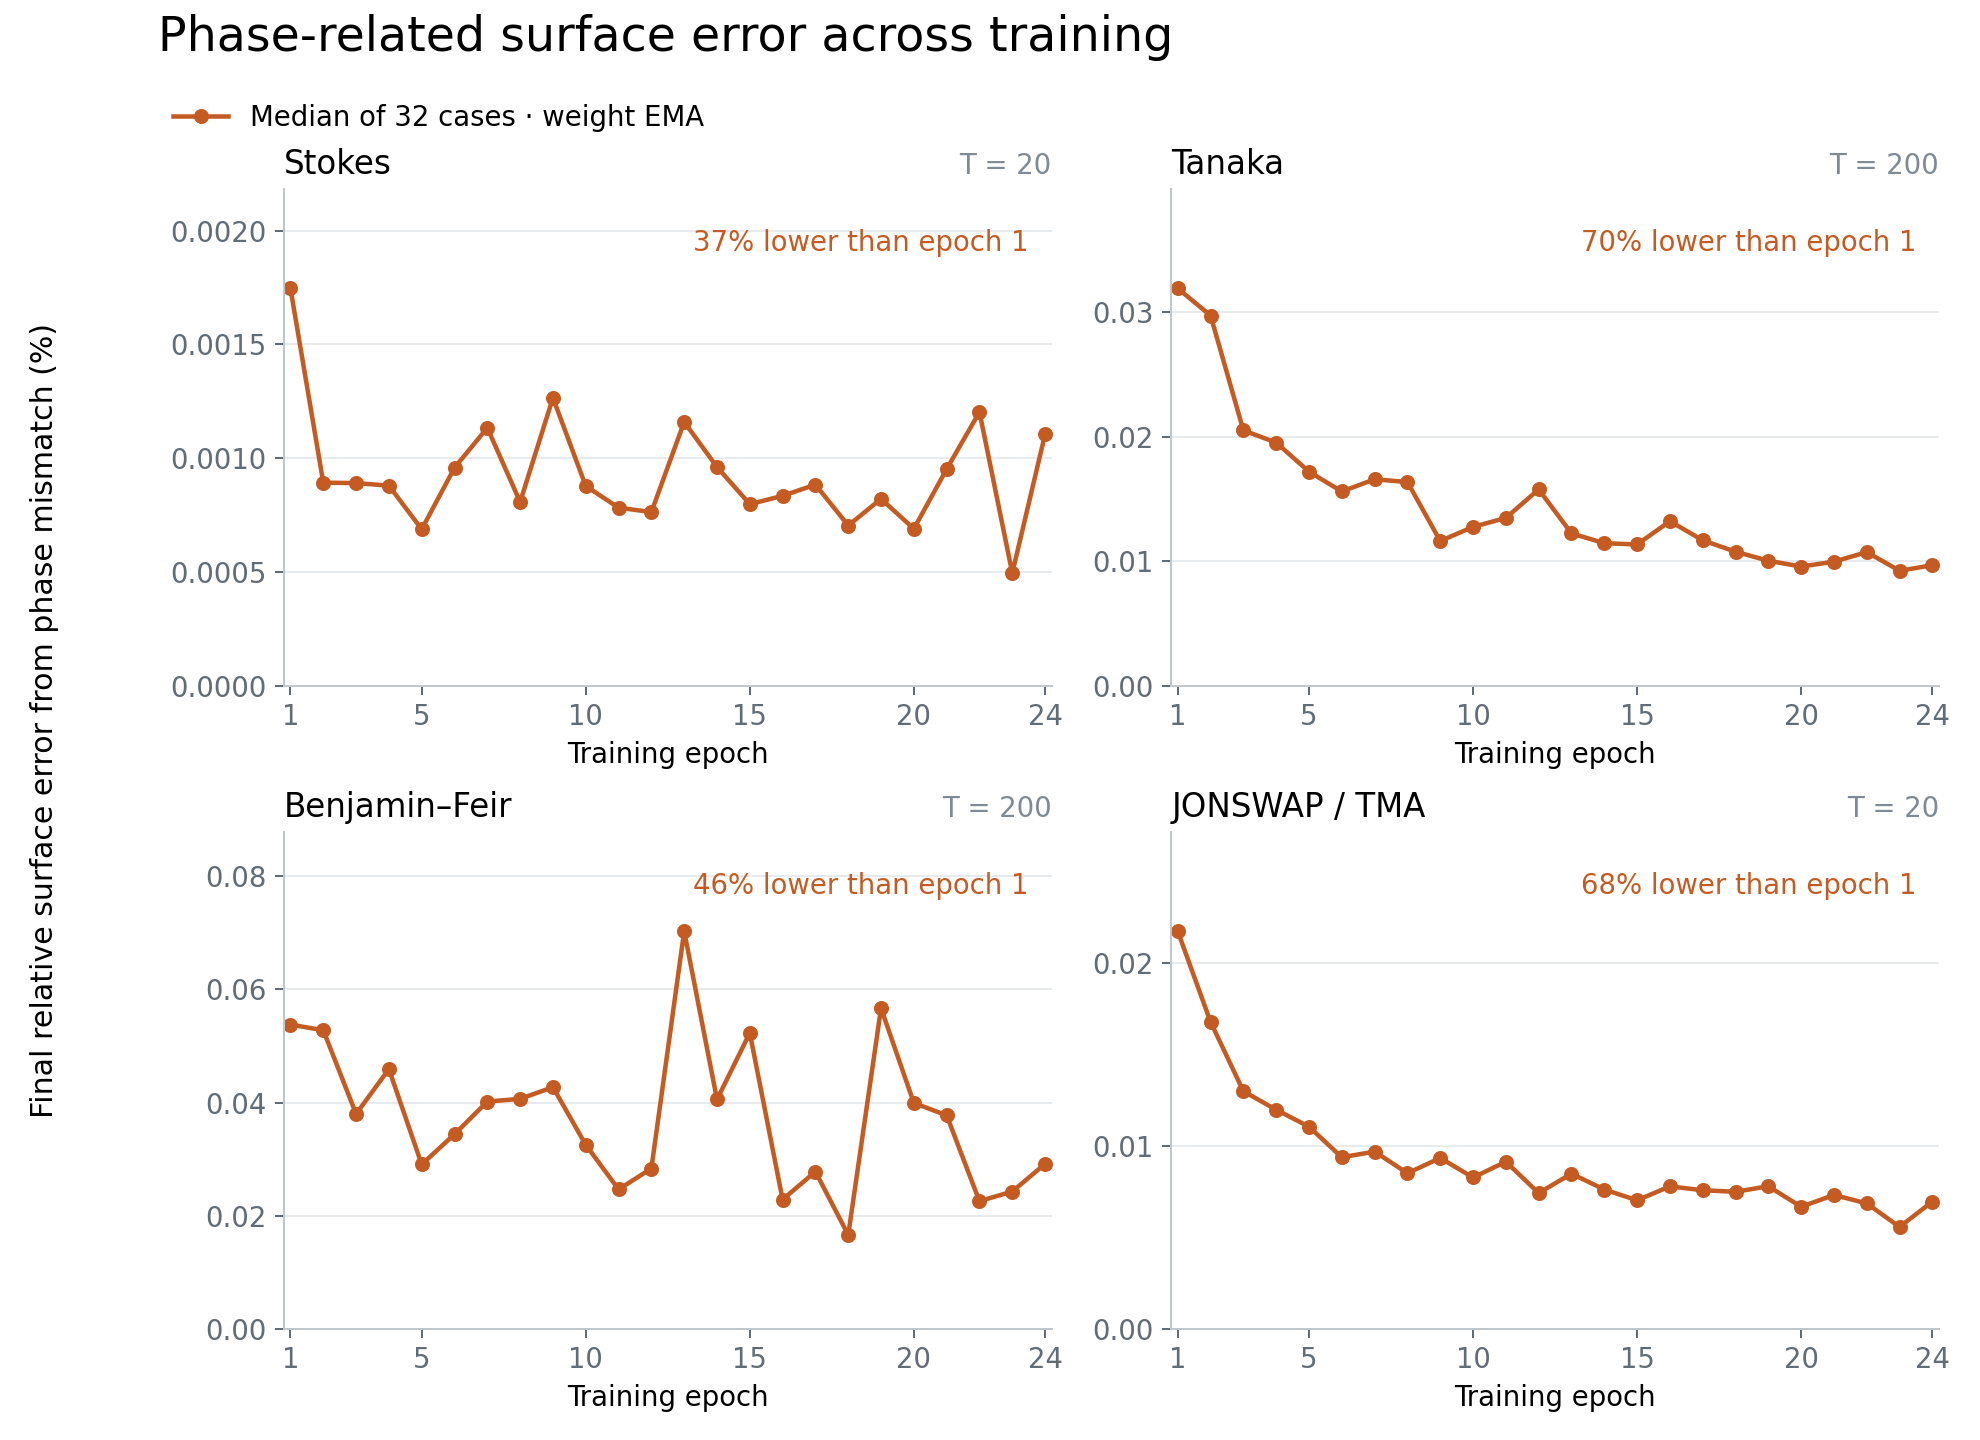
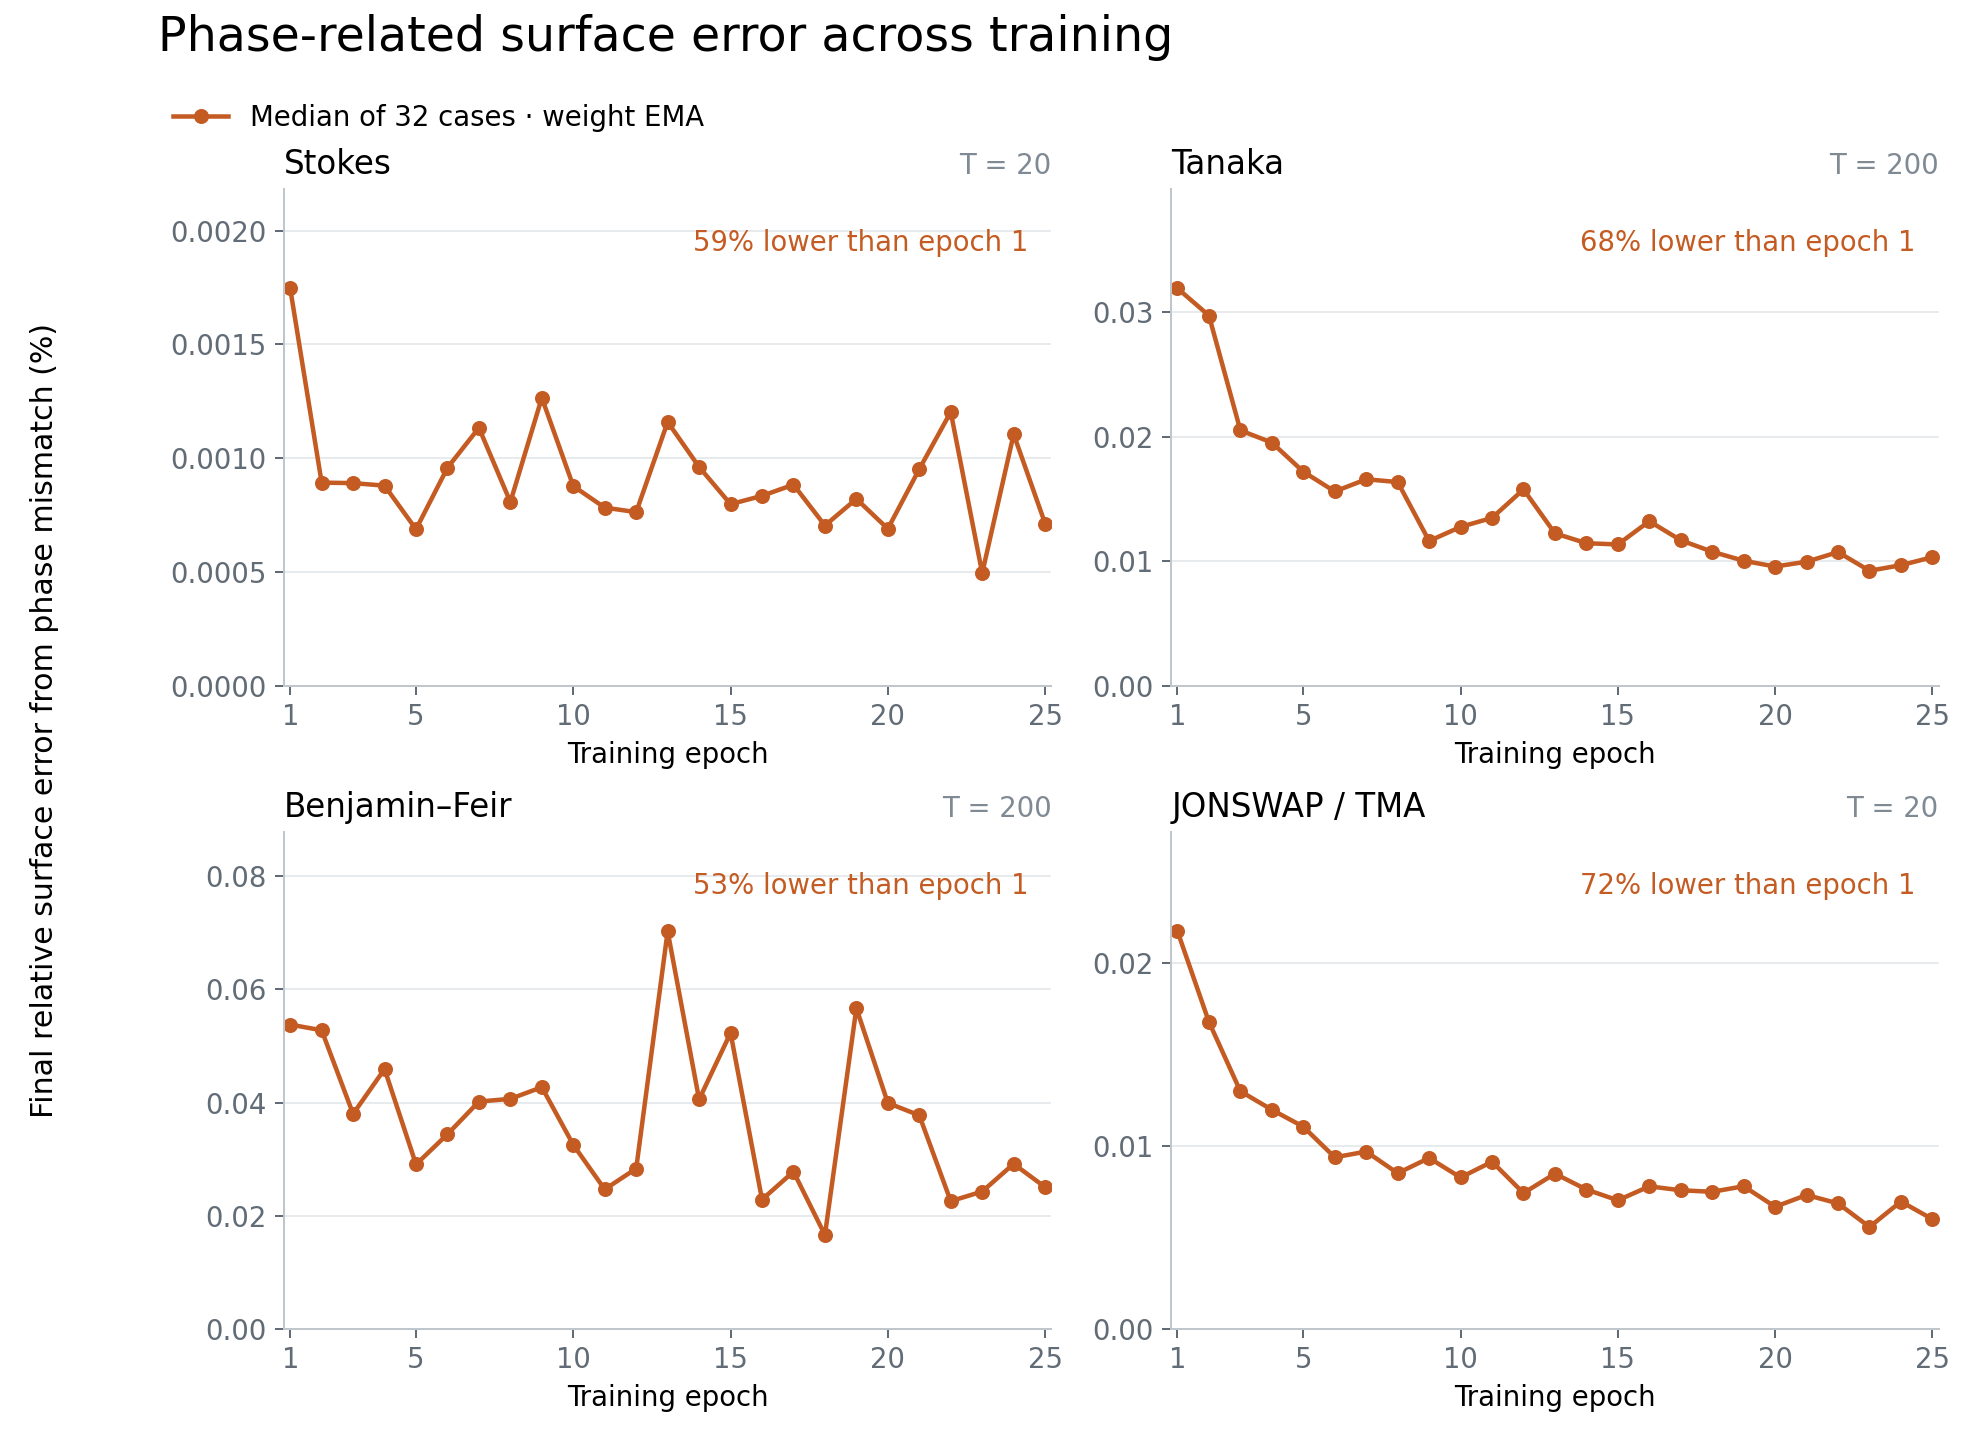
Refresh epoch 25 phase plot and retain epoch 23 rollout best

diff --git a/paper-plots/plot_phase_diagnostics.py b/paper-plots/plot_phase_diagnostics.py
@@ -75,7 +75,7 @@ def main() -> None:
         "pdf.fonttype": 42, "ps.fonttype": 42,
     })
     if args.phase_training:
-        epochs = np.arange(1, 25)
+        epochs = np.arange(1, 26)
         evaluations = [
             ROOT / "outputs/c27_phase1_lr8_momentum_half_ema995_grad05_adam05_b2099_batch16_hd04_band128_nested1_gamma32_full_20261012/eval_fast_weight_ema_nestedfused_contextbatch",
             *(ROOT / f"outputs/c27_nested_b16_ema_low_lr_continue_20261014/eval_epoch{epoch}_weight_ema" for epoch in (2, 3)),

diff --git a/experiments/experiments-2026-10-16.md b/experiments/experiments-2026-10-16.md
@@ -1,6 +1,6 @@
 # Experiments — 2026-10-16
 
-Epoch 23 remains the aggregate rollout best through epoch 24 under the approved low-LR continuation. Figure 12c uses epoch-23 weight EMA and unchanged measured Ada timings; Figure 22 includes epochs 1–24. Epoch 24's pooled terminal surface error regresses 22.7% against 23 despite improved validation. Epoch 25 resumed automatically. Best validation is 24, with patience 0/5; the longer-run experiment remains ongoing.
+Epoch 23 remains the aggregate rollout best through epoch 25 under the approved low-LR continuation. Figure 12c uses epoch-23 weight EMA and unchanged measured Ada timings; Figure 22 includes epochs 1–25. Epoch 25's pooled terminal surface error improves 6.0% over 24 but remains 15.3% worse than 23. Epoch 26 resumed automatically. Best validation is 25, with patience 0/5; the longer-run experiment remains ongoing.
 
 | Date | Time | File / Variant | Motivation | What Tried / Evidence | Correctness | Timing | Decision |
 | --- | --- | --- | --- | --- | --- | --- | --- |
@@ -11,3 +11,4 @@ Epoch 23 remains the aggregate rollout best through epoch 24 under the approved 
 | 2026-10-16 | 10:19 | Same continuation: epoch 22 primary EMA; Figure 22 | Check whether unchanged low-LR continuation improves rollout accuracy and refresh the requested phase plot. | All128 EMA rollouts complete. Pooled eta/xi GM22/21=.938325/.945201 (68/71 wins),22/18=1.097069/1.108328 (67/67),22/1=.435857/.435281 (107/107). Eta/M2=.203739 (97 wins),eta/M3=.858547 (69). Family eta22/18 S/T/BF/J=1.705301/.777027/1.199994/.911001: Tanaka and JONSWAP improve, Stokes and BF regress. Eta median/p95 percent: .001227854/.026077752, .011917066/.108495435, .024187243/.078574182, .009230428/.063762183. Pooled eta GM/median/p95=.007490703/.010890454/.076519060%; xi GM=.005934898%. Whole-trajectory eta22/18=1.067412,22/1=.433939; phase22/18=1.137881,22/1=.471971; amplitude22/18=.933695. Validation selection improves1.2720% to1.269090905e-5, best22,patience0/5. | Independent CPU audit verifies matching128 IDs/times/depths, finite arrays, valid references, positive water depth, exact terminal eta/xi/Gxi norms and no configured eta-threshold failures. Root independently reproduces terminal/trajectory errors and the direct Fourier phase/amplitude identity. All six counters16220490; all52 EMA arrays/40384 scalars match latest/export/best shadows. LR8e-6,gradientEMA.5,weightEMA.995 unchanged. Figure22 includes22; phase medians .001203018/.010738561/.022559409/.006848962%, respectively31.1/66.3/58.0/68.5% below1. | Training02:03, finished10:10; validation/export10:13; all EMA rollouts and automatic epoch23 resume10:17. CPU audit/render10:14–10:21; no new GPU timing. | MERGE phase-plot refresh; keep Figure12c and retained best full state at18. Continue approved60-epoch ceiling and validation-patience-five rule unchanged. |
 | 2026-10-16 | 12:32 | Same continuation: epoch 23 primary EMA; Figures 12c/22 | Test whether continued low-LR training preserves the one-epoch gains and improves the selected rollout checkpoint. | All128 EMA rollouts complete. Pooled eta/xi GM23/18=.941541/.927289 (70/70 wins),23/22=.858234/.836655 (70/72),23/1=.374067/.364181 (120/118). Eta/M2=.174855 (100 wins),eta/M3=.736834 (74). Family eta23/18 S/T/BF/J=.993917/.752252/1.127954/.931865: BF regresses12.8%. Eta median/p95 percent: .000565933/.008818952, .012099028/.157663917, .025179085/.063855665, .007758187/.060418578. Pooled eta GM/median/p95=.006428775/.008161471/.075854952%; xi GM=.004965465%. Whole-trajectory eta23/18=.948755,23/1=.385701; exact phase23/18=.938037,23/1=.389079; amplitude23/18=.994113. Pooled eta p95 rises from.070785590% at18. Validation selection1.269513077e-5 is.0333% worse than22; best validation22,patience1/5. | Independent CPU checks confirm matching128 IDs/times/depths, finite fields, valid references, positive water depth, exact terminal eta/xi/Gxi norms and zero configured eta-threshold failures. Root independently reproduces terminal/trajectory errors and direct Fourier phase/amplitude identity. Retained full23 in rollout_best_epoch23_ckpt matches latest exactly:264 leaves/201924 scalars,counters16957785; all52 EMA arrays/40384 scalars match export. LR8e-6,gradientEMA.5,weightEMA.995 unchanged. Figure12c uses23 with unchanged measured B1 times1.555725211/15.307572914/15.304878696/1.560811040 seconds; fixed-case eta percent .000234292/.145267789/.033999722/.019160100, independently checked in PDF. Figure22 includes23, phase medians .000495448/.009239992/.024267692/.005563976%, respectively71.6/71.0/54.9/74.4% below1. | Training02:04, finished12:22; validation/export12:25; all EMA rollouts and automatic epoch24 resume12:29. CPU audits/render12:26–12:32; no new GPU timing. | MERGE figures/log and retain23 as new best by pooled geometric-mean terminal eta, not every family or tail metric. Continue the approved60-epoch ceiling and validation-patience-five rule unchanged; sustained60–120-epoch transfer remains unproven. |
 | 2026-10-16 | 14:44 | Same continuation: epoch 24 primary EMA; Figures 12c/22 | Refresh requested plots and test whether the latest complete EMA evaluation improves the selected rollout checkpoint. | All128 rollouts complete. Pooled eta/xi GM24/23=1.226908/1.263586 (55/53 wins); eta/M2=.214531 (98 wins),eta/M3=.904028 (71). Family eta24/23 S/T/BF/J=1.552802/.955209/1.558001/.980540. Eta median/p95 percent: .001111796/.011584164, .012531554/.203851395, .031707002/.081934524, .007977855/.065485282. Pooled eta GM/median/p95=.007887513/.011292078/.081373334%; xi GM=.006274294%. Whole-trajectory eta24/23=1.219871; exact phase=1.276248,amplitude=1.054001. Validation selection improves1.3905% to1.251860710e-5, best24,patience0/5; again validation does not rank the rollout regression. | Independent CPU audit verifies matching128 IDs/times/depths against23/M2/M3, finite fields, valid references, positive water depth and exact terminal eta norms. Root independently reproduces terminal/trajectory errors and direct Fourier phase/amplitude identity. Boundary state audit confirms counters17695080 and all52 EMA arrays/40384 scalars matching latest/export/best; gradientEMA.5,weightEMA.995,LR8e-6 unchanged. Figure12c retains23 and existing measured B1 timings. Figure22 extends through24; phase medians .001105276/.009686092/.029153970/.006949670%. | Training02:04; validation/export14:37; EMA evaluation complete14:40, then automatic epoch25 resume. CPU audit/render14:42 onward; no new GPU timing. | MERGE plot refresh; retain23 as rollout best. Continue approved60-epoch ceiling and validation-patience-five rule unchanged. |
+| 2026-10-16 | 16:55 | Same continuation: epoch 25 primary EMA; Figure 22 | Test whether unchanged low-LR continuation improves the selected rollout checkpoint and refresh the requested phase-history plot. | All128 rollouts complete. Pooled eta/xi GM25/23=1.153271/1.177214 (61/62 wins),25/24=.939982/.931645 (69/76),25/1=.431401/.428719 (111/109). Eta/M2=.201656 (100 wins),eta/M3=.849770 (67). Family eta25/23 S/T/BF/J=1.437057/1.143899/1.107907/.971316. Eta median/p95 percent: .000718240/.017180106, .012034970/.144168675, .027112303/.078011446, .007838281/.066413457. Pooled eta GM/median/p95=.007414120/.010159466/.078245302%; xi GM=.005845415%. Whole-trajectory eta25/23=1.096161; exact phase=1.210126,amplitude=1.035683. Selection validation improves1.0934% to1.238173262e-5, best25,patience0/5. | Independent CPU audit verifies matching128 IDs/times/depths against23/24/M2/M3, finite fields, valid references, positive water depth and exact saved terminal eta/xi/Gxi norms. Root independently reproduces terminal/trajectory errors and direct Fourier phase/amplitude identity; direct saved norms use the evaluator's documented denominator epsilon. Checkpoint audit confirms counters18432375 and all52 EMA arrays/40384 scalars matching latest/export/best. LR8e-6,gradientEMA.5,weightEMA.995 unchanged. Figure12c retains23 and unchanged measured B1 timings. Figure22 extends through25; phase medians .000713302/.010332284/.025037043/.005988000%, respectively59.1/67.6/53.4/72.4% below1. | Training02:04, finished16:45; validation/export16:49; EMA evaluation complete16:52, then automatic epoch26 resume. CPU audits/render16:52 onward; no new GPU timing. | MERGE phase-plot refresh; retain23 as rollout best. Continue approved60-epoch ceiling and validation-patience-five rule unchanged; sustained60–120-epoch transfer remains unproven. |

diff --git a/paper-plots/README.md b/paper-plots/README.md
@@ -435,7 +435,7 @@ UV_CACHE_DIR=/tmp/codex-uv-cache uv run --no-sync paper-plots/plot_neural_advant
 
 Figure 12c compares the Ada classical solver, epoch-23 EMA candidate, and older
 rollout-supervised network. Epoch 23 is the best overall evaluated checkpoint
-through epoch 24 by pooled geometric-mean terminal surface error across the 128 cases;
+through epoch 25 by pooled geometric-mean terminal surface error across the 128 cases;
 each panel still displays the fixed timed case, not the family median. Runtime
 measurements are unchanged for the same inference path. It omits the RMS/context
 and spectral-DNO models and historical timing annotations:
@@ -760,17 +760,17 @@ OPENBLAS_NUM_THREADS=1 OMP_NUM_THREADS=1 UV_CACHE_DIR=/tmp/dno-uv-cache \
 [PNG](figures/22-phase-error-vs-training.png) / [PDF](figures/22-phase-error-vs-training.pdf)
 
 Terminal Fourier-phase error for primary weight-EMA checkpoints at every epoch
-from 1 through 24, using the same 32 cases per family. The y axis uses Figure 20's
+from 1 through 25, using the same 32 cases per family. The y axis uses Figure 20's
 relative-error magnitude, not the percentage of total squared error. Each point
 is the median of `100*sqrt(phase_energy/reference_energy)` at the final rollout
-time. All twenty-four measurements are shown; the curves are not monotonic.
-Epoch-24 median errors are 0.00110528%, 0.00968609%, 0.0291540% and
-0.00694967% for Stokes, Tanaka, Benjamin–Feir and JONSWAP/TMA. These are
-36.7%, 69.6%, 45.8% and 68.0% below epoch 1, respectively. Against epoch 23,
-pooled geometric-mean terminal surface error rises 22.7% and phase-related
-error rises 27.6%. Figure 12c therefore retains epoch 23, the best checkpoint
-selected using all 128 cases rather than the four plotted cases. Epoch 24's
-validation improves despite this rollout regression.
+time. All twenty-five measurements are shown; the curves are not monotonic.
+Epoch-25 median errors are 0.000713302%, 0.0103323%, 0.0250370% and
+0.00598800% for Stokes, Tanaka, Benjamin–Feir and JONSWAP/TMA. These are
+59.1%, 67.6%, 53.4% and 72.4% below epoch 1, respectively. Against epoch 23,
+pooled geometric-mean terminal surface error rises 15.3% and phase-related
+error rises 21.0%, although both improve over epoch 24. Figure 12c therefore
+retains epoch 23, the best checkpoint selected using all 128 cases rather than
+the four plotted cases. Epoch 25 improves validation by 1.1% over epoch 24.
 
 ```sh
 OPENBLAS_NUM_THREADS=1 OMP_NUM_THREADS=1 UV_CACHE_DIR=/tmp/dno-uv-cache \

diff --git a/EXPERIMENTS.md b/EXPERIMENTS.md
@@ -33,11 +33,11 @@ could not be recovered at all are in
 
 ## Dated logs
 
-98 files, 1622 rows.
+98 files, 1623 rows.
 
 | Date | Rows | File | Size |
 | --- | --- | --- | --- |
-| 2026-10-16 | 7 | [`experiments/experiments-2026-10-16.md`](experiments/experiments-2026-10-16.md) | 13 KB |
+| 2026-10-16 | 8 | [`experiments/experiments-2026-10-16.md`](experiments/experiments-2026-10-16.md) | 15 KB |
 | 2026-10-15 | 37 | [`experiments/experiments-2026-10-15.md`](experiments/experiments-2026-10-15.md) | 64 KB |
 | 2026-10-14 | 16 | [`experiments/experiments-2026-10-14.md`](experiments/experiments-2026-10-14.md) | 38 KB |
 | 2026-10-13 | 8 | [`experiments/experiments-2026-10-13.md`](experiments/experiments-2026-10-13.md) | 14 KB |
